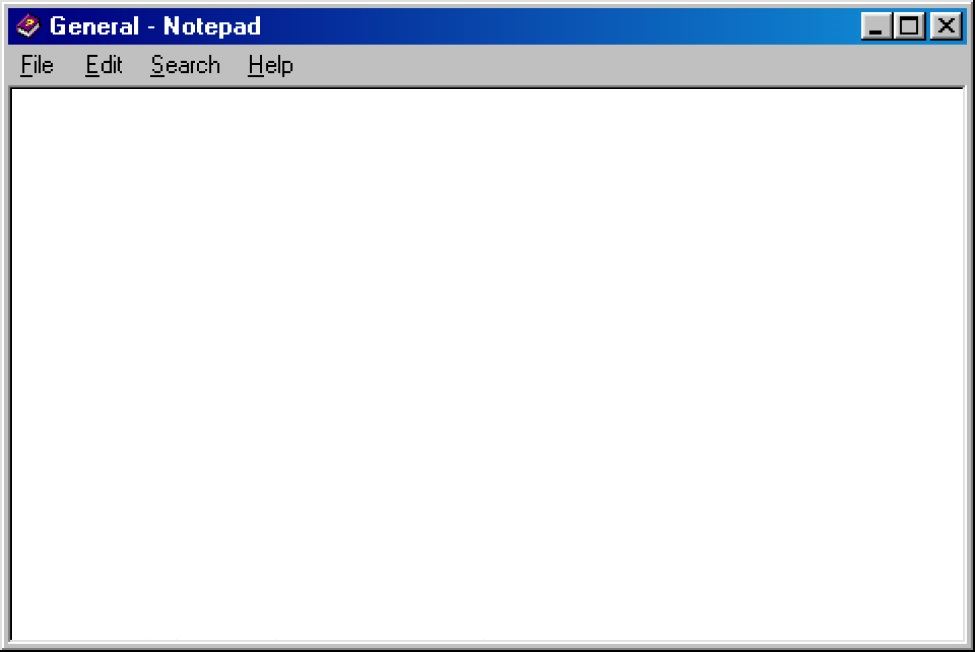
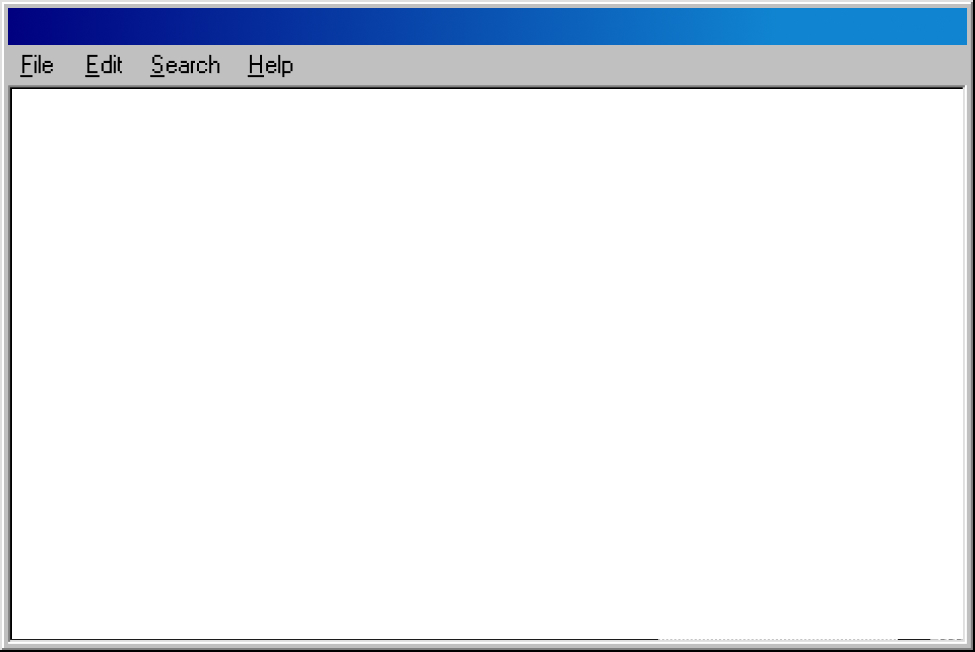
book handle fix

Changed region(s): [[0.0, 0.0, 0.7077, 0.092], [0.8615, 0.0, 1.0, 0.092], [0.7385, 0.0613, 0.8, 0.092]]

diff --git a/src/assets/style/Book.style.tsx b/src/assets/style/Book.style.tsx
@@ -1,7 +1,7 @@
 import styled from "styled-components";
 
 import { FilesProps } from "../../utils/context";
-import bookHandle from "../images/handles/bookHandle.jpg";
+import bookHandle from "../images/handles/handle.jpg";
 import book from "../images/modals/bookModal.jpg";
 import { flexMixin } from "./GlobalStyles";
 import { iconsSharedStyle } from "./Icons.style";
@@ -47,12 +47,43 @@ export const Book = styled.div<BookProps>`
 `;
 
 export const BookHandle = styled.div<FilesProps>`
-  ${flexMixin({ justify: "flex-end", align: "center" })};
   background: url(${bookHandle}) center/contain no-repeat;
-  height: 50px;
-  width: 100%;
-  padding: 0 15px;
+  height: 37px;
+  width: 959px;
+  margin: 0.5rem auto;
   cursor: grab;
+
+  div {
+    ${flexMixin({ justify: "flex-start", align: "center" })};
+    height: 37px;
+    width: 270px;
+
+    user-drag: none;
+    -webkit-user-drag: none;
+    user-select: none;
+    -moz-user-select: none;
+    -webkit-user-select: none;
+    -ms-user-select: none;
+    cursor: auto;
+
+    img {
+      height: 28px;
+      width: 28px;
+      margin: 0 0.5rem;
+
+      user-drag: none;
+      -webkit-user-drag: none;
+      user-select: none;
+      -moz-user-select: none;
+      -webkit-user-select: none;
+      -ms-user-select: none;
+    }
+
+    p {
+      font-size: 1.875rem;
+      color: #fff;
+    }
+  }
 `;
 
 export const BookText = styled.p`

diff --git a/src/components/windows/Book.tsx b/src/components/windows/Book.tsx
@@ -1,6 +1,7 @@
 import React from "react";
 import Draggable from "react-draggable";
 
+import handleImg from "../../assets/images/icons/book.png";
 import { BookFile, BookHandle, BookText } from "../../assets/style/Book.style";
 import { useGlobalContext } from "../../utils/context";
 import { useLoadingTimer } from "../../utils/hooks";
@@ -25,8 +26,12 @@ const Book = () => {
           isVisible={isVisible.book}
           data-no-select="true"
         >
+          <ControlBtns iconName="book" />
           <BookHandle className="handle" isVisible={isVisible.book}>
-            <ControlBtns iconName="book" />
+            <div>
+              <img src={handleImg} alt="handleImg" />
+              <p>General - Notepad</p>
+            </div>
           </BookHandle>
           <article>
             <BookText>Site Design and Development:</BookText>
